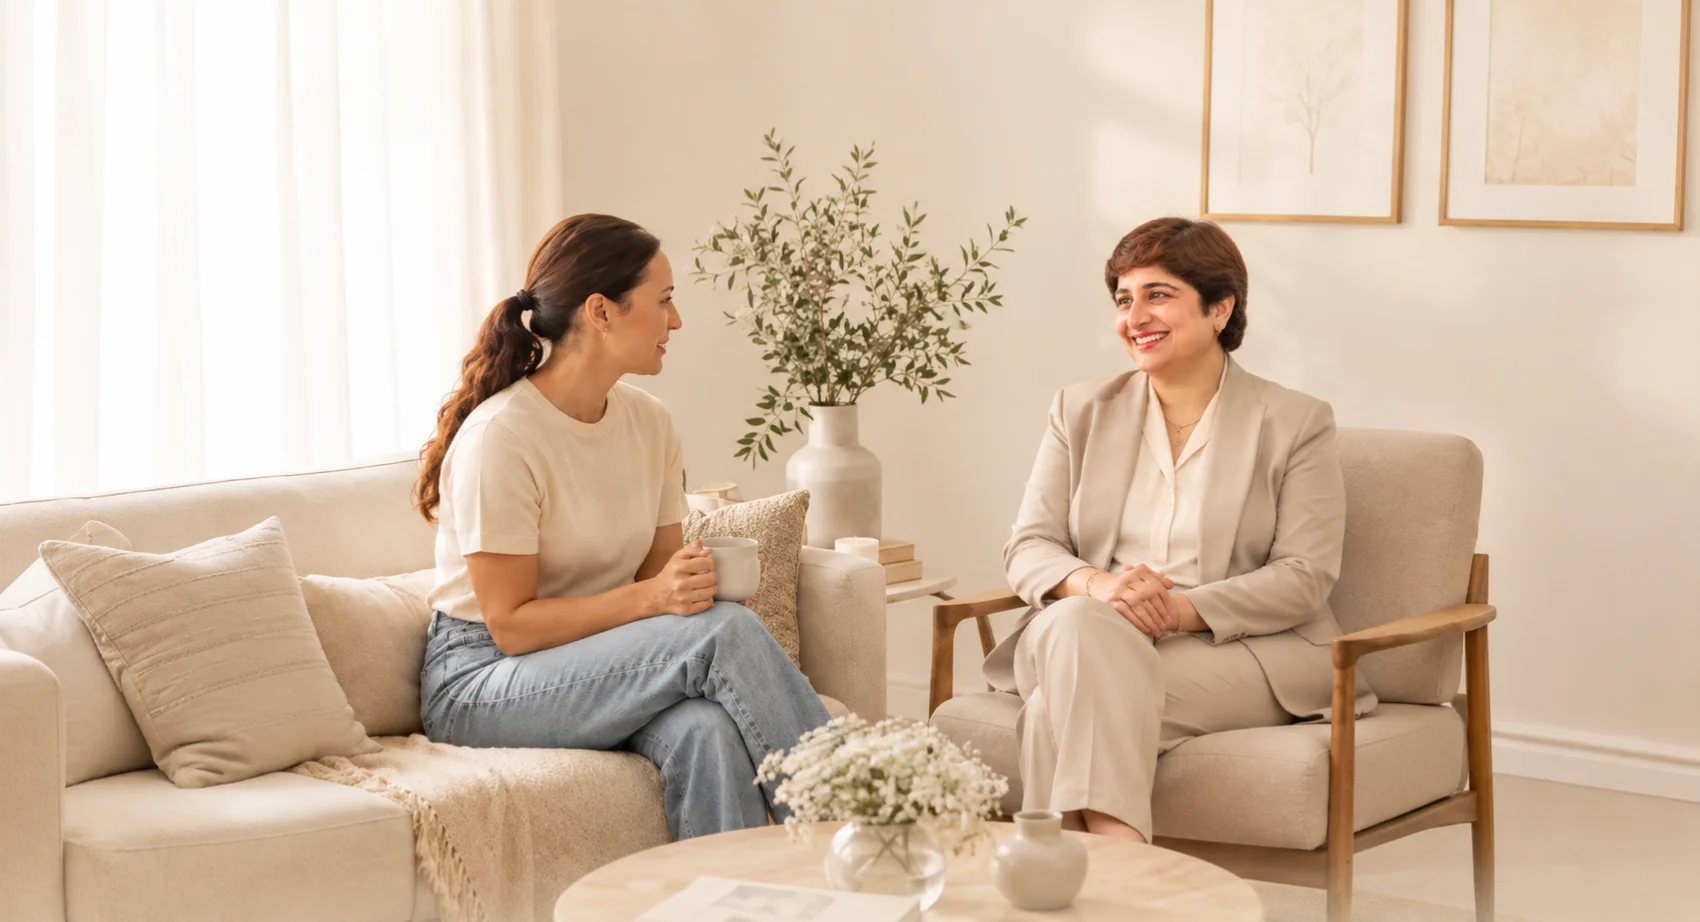
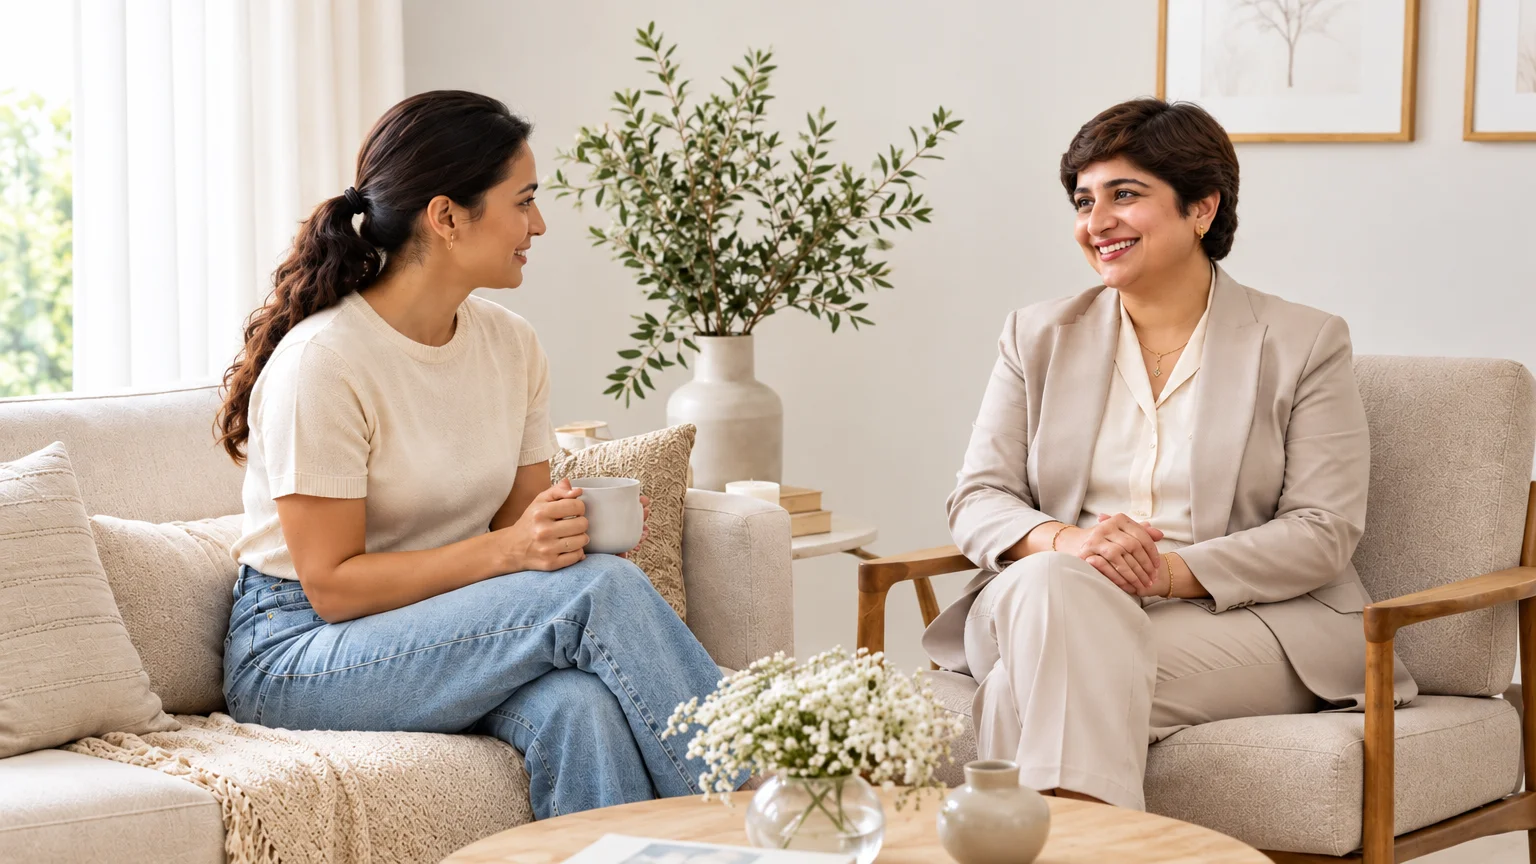
feat(home): replace CTA image and optimize responsive framing

diff --git a/src/components/home/SayHello.jsx b/src/components/home/SayHello.jsx
@@ -267,26 +267,57 @@ export default function SayHello({
           {/* ======================================================= */}
           {/* Right Image Banner                                       */}
           {/* ======================================================= */}
+
+          {/* 1. Mobile & Tablet (< 1024px): 16:9 Aspect Ratio (Y-axis never zooms in, heads never cropped) */}
           <motion.div
-            id="say-hello-image-banner"
-            initial={{ opacity: 0, x: 20 }}
-            whileInView={{ opacity: 1, x: 0 }}
-            viewport={{ once: true, amount: 0.25 }}
+            id="say-hello-image-banner-mobile"
+            initial={{ opacity: 0, y: 20 }}
+            whileInView={{ opacity: 1, y: 0 }}
+            viewport={{ once: true, amount: 0.2 }}
             transition={{ duration: 0.75, ease: [0.16, 1, 0.3, 1] }}
-            className={`relative overflow-hidden w-full h-[clamp(240px,38vw,400px)] rounded-[12px] group/photo ${
-              isAltHeading
-                ? "flex-shrink-0 lg:flex-[47] lg:h-[clamp(320px,27.78vw,400px)]"
-                : "lg:flex-[47] lg:w-auto lg:h-[clamp(320px,27.78vw,400px)] xl:flex-none xl:flex-shrink-0 xl:w-[501px] xl:h-[400px]"
-            }`}
+            className="block lg:hidden relative overflow-hidden w-full aspect-[16/9] rounded-[12px] bg-[#F5F3F1]"
           >
             <Image
               src="/images/say-hello.webp"
               alt="Say Hello"
               fill
               priority
-              sizes="(max-width: 767px) 100vw, (max-width: 1200px) 100vw, 43vw"
-              className="object-cover transition-transform duration-700 ease-out group-hover/photo:scale-105"
+              sizes="(max-width: 767px) 94vw, (max-width: 1023px) 90vw, 100vw"
+              className="object-cover object-center"
             />
+          </motion.div>
+
+          {/* 2. Desktop (>= 1024px): 501x400 Card with Fluid 30px X Offset (Centered Y-axis) */}
+          <motion.div
+            id="say-hello-image-banner"
+            initial={{ opacity: 0, x: 20 }}
+            whileInView={{ opacity: 1, x: 0 }}
+            viewport={{ once: true, amount: 0.25 }}
+            transition={{ duration: 0.75, ease: [0.16, 1, 0.3, 1] }}
+            className={`hidden lg:block relative overflow-hidden rounded-[12px] group/photo bg-[#F5F3F1] ${
+              isAltHeading
+                ? "flex-shrink-0 lg:flex-[47] lg:h-[clamp(320px,27.78vw,400px)]"
+                : "lg:flex-[47] lg:w-auto lg:h-[clamp(320px,27.78vw,400px)] xl:flex-none xl:flex-shrink-0 xl:w-[501px] xl:h-[400px]"
+            }`}
+          >
+            <div
+              className="absolute inset-0 w-full h-full flex items-center justify-center pointer-events-none"
+              style={{
+                transform: "translate(clamp(-30px, -2.08vw, -15px), 0px)",
+                transformOrigin: "center center",
+              }}
+            >
+              <div className="relative w-[142.2%] h-full shrink-0">
+                <Image
+                  src="/images/say-hello.webp"
+                  alt="Say Hello"
+                  fill
+                  priority
+                  sizes="(max-width: 1279px) 47vw, 501px"
+                  className="object-cover"
+                />
+              </div>
+            </div>
           </motion.div>
         </div>
       </div>
